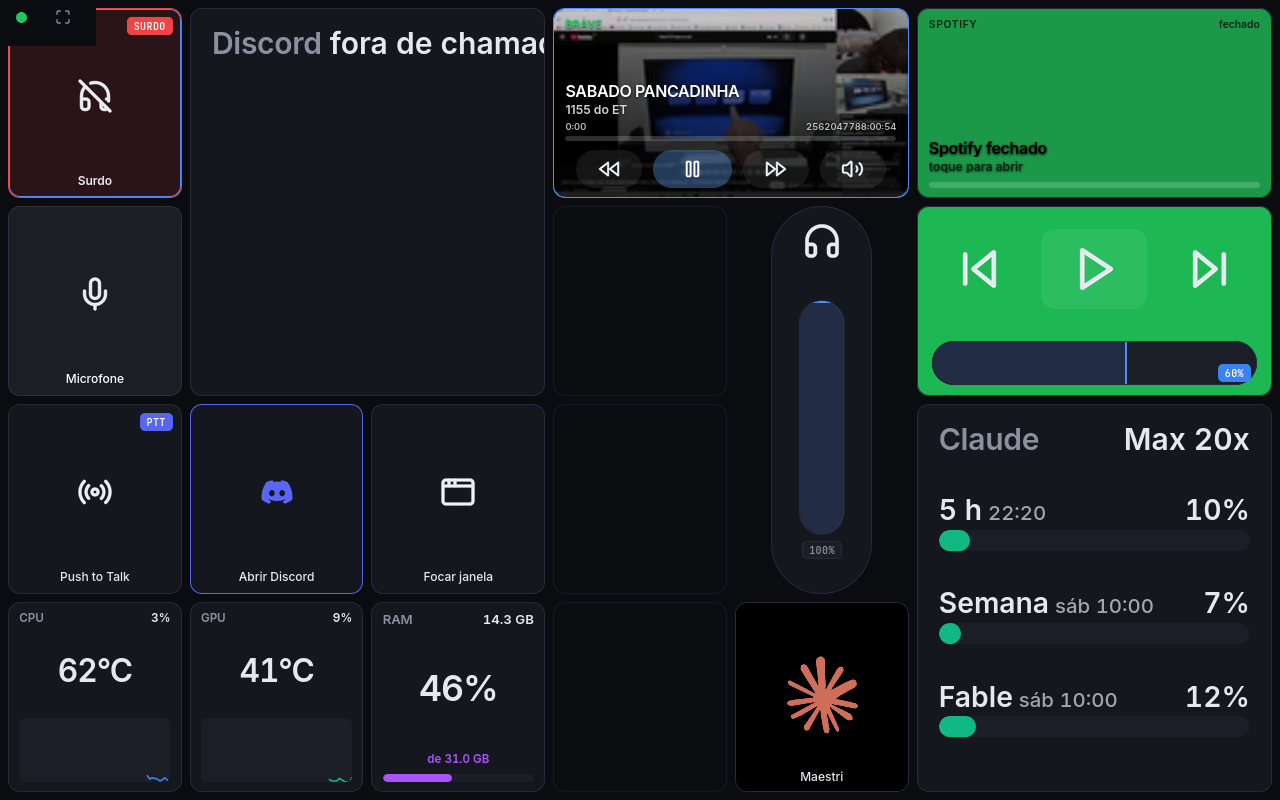
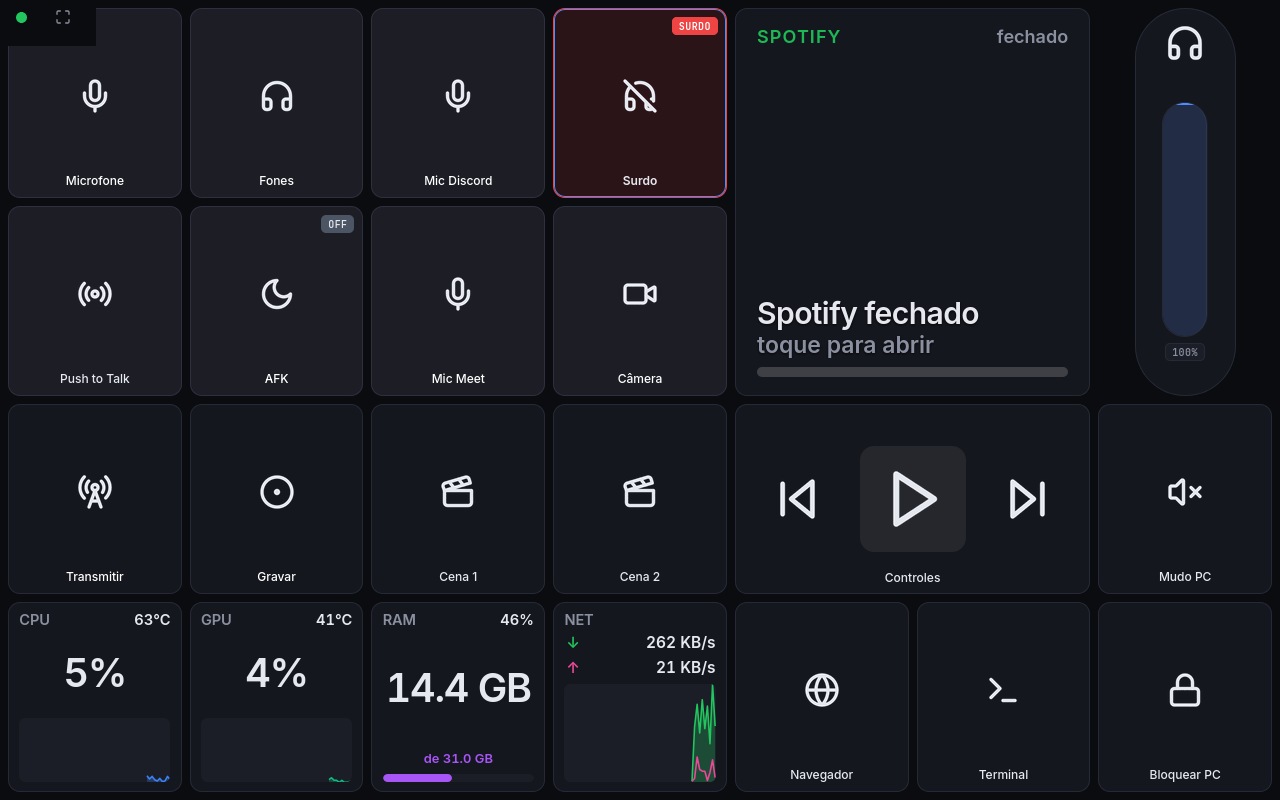
docs: capturas com perfil de demonstração genérico
As imagens do README passam a usar um perfil "Demonstração" montado só para isso
(TeamSpeak, Discord, Meet, OBS, Spotify, fader, telemetria e atalhos do sistema),
sem dados pessoais do perfil Main.

Claude-Session: https://claude.ai/code/session_01BfuC977vkWEe9efZQnCS98

diff --git a/README.md b/README.md
@@ -22,13 +22,13 @@ Canais: **estável** (`vX.Y.Z`) para o dia a dia e **beta** (`vX.Y.Z-beta.N`) pa
 
 ## Como é
 
-![Deck no tablet: teclas do Discord, mídia do navegador, Spotify, telemetria de CPU/GPU/RAM e uso do Claude](docs/images/deck.png)
+![Deck no tablet: teclas de TeamSpeak, Discord, Meet e OBS, bloco do Spotify, fader de volume, telemetria e atalhos do sistema](docs/images/deck.png)
 
-*O deck no tablet (1280×800): Discord, mídia do sistema, Spotify, fader de volume, telemetria e uso de IA numa tela só.*
+*O deck no tablet (1280×800): TeamSpeak, Discord, Meet, OBS, Spotify, fader de volume, telemetria e atalhos do PC numa tela só.*
 
 ![Gerenciador no PC: aparelho desenhado com a grade do perfil, painel de ações à direita e chips de estado](docs/images/manage.png)
 
-*O gerenciador no PC: arraste ações do painel da direita para as teclas; o que você vê é o estado vivo do tablet.*
+*O gerenciador no PC: arraste ações do painel da direita para as teclas; o aparelho desenhado mostra o estado vivo do tablet.*
 
 ![Cartão de emparelhamento no gerenciador com o PIN de 4 dígitos, nome e IP do aparelho e botão Recusar](docs/images/manage-pin.png)
 
